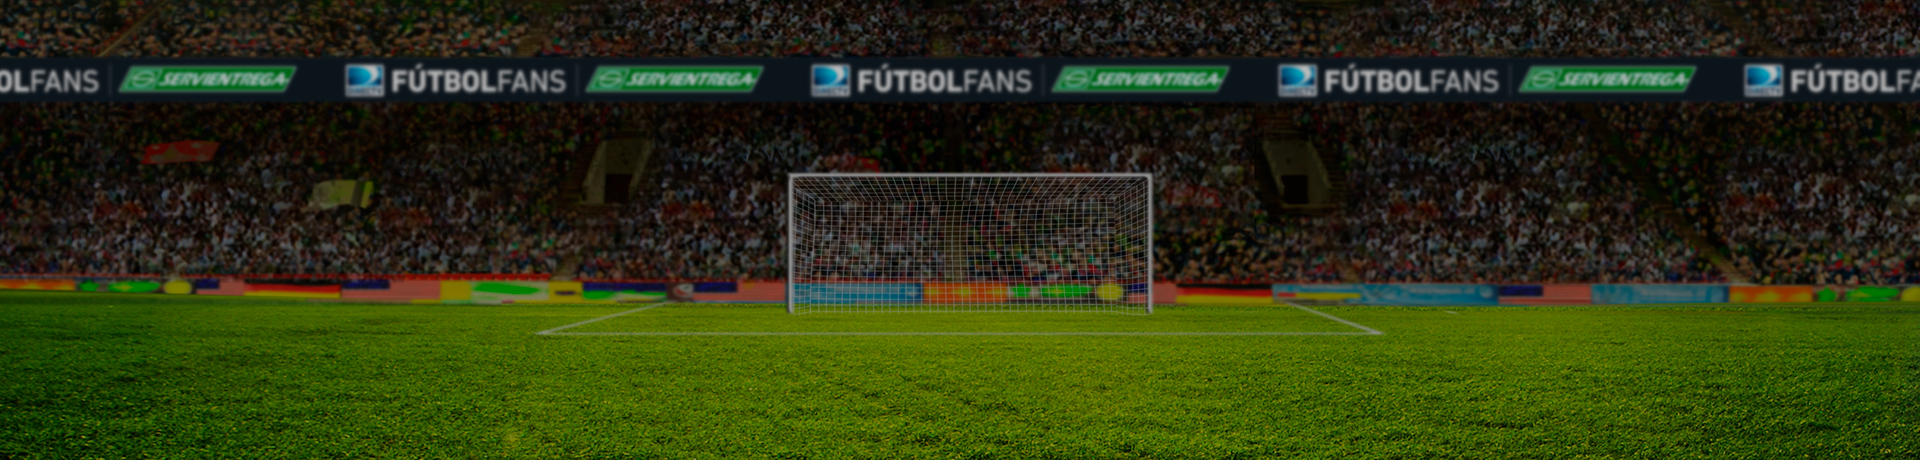
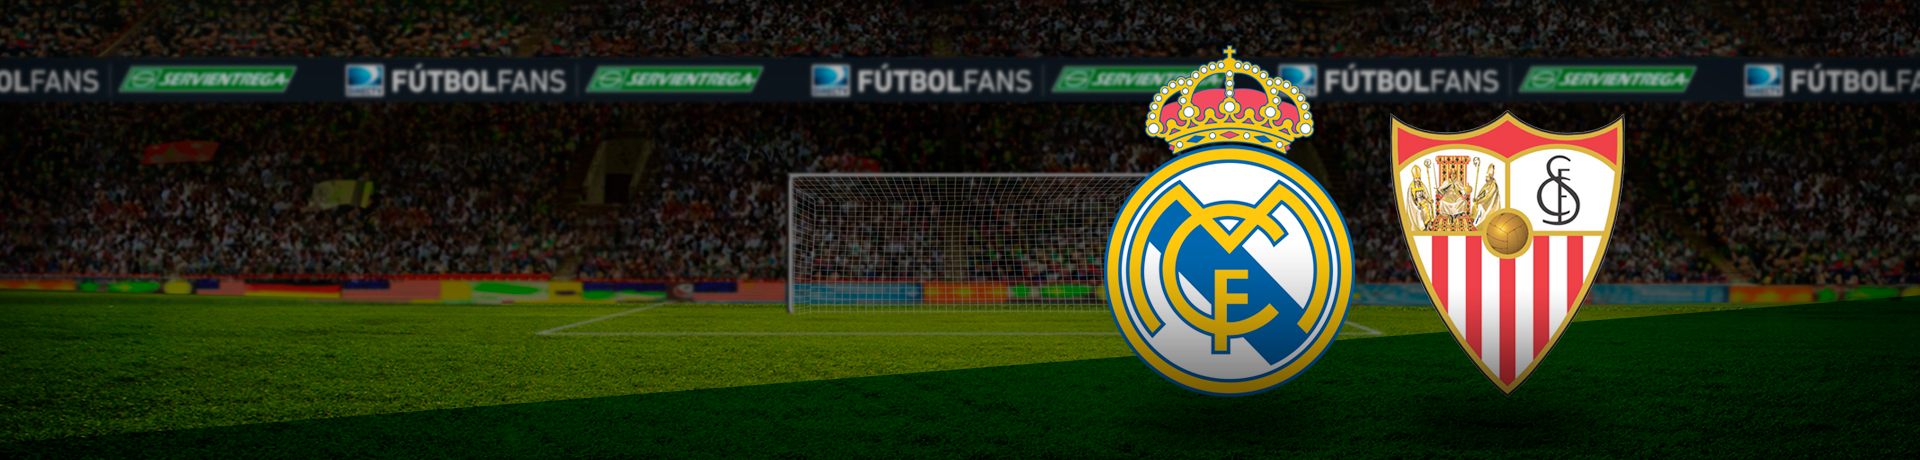
ajustes slide

diff --git a/public/css/app.css b/public/css/app.css
@@ -3603,7 +3603,7 @@ h6 {
   }
 
   h2 {
-    font-size: 2.44845361rem;
+    font-size: 2.19072165rem;
   }
 
   h3 {
@@ -8267,7 +8267,7 @@ h4.seccion,
 h5.seccion,
 h6.seccion {
   color: #009F33;
-  margin: 0;
+  margin-bottom: 8px;
 }
 
 h1.light,
@@ -8419,7 +8419,8 @@ label {
 
 .orbit .orbit-caption {
   background: none;
-  padding: 7% 15%;
+  padding: 6% 15%;
+  width: 60%;
 }
 
 @media print, screen and (min-width: 40em) {

diff --git a/resources/assets/sass/_settings.scss b/resources/assets/sass/_settings.scss
@@ -147,7 +147,7 @@ $header-styles: (
         ),
         medium: (
                 'h1': ('font-size': 42),
-                'h2': ('font-size': 38),
+                'h2': ('font-size': 34),
                 'h3': ('font-size': 30),
                 'h4': ('font-size': 25),
                 'h5': ('font-size': 20),

diff --git a/resources/assets/sass/components/_blocks.scss b/resources/assets/sass/components/_blocks.scss
@@ -66,7 +66,8 @@
   border-bottom: 4px solid $primary-color;
   .orbit-caption {
     background: none;
-    padding: 7% 15%;
+    padding: 6% 15%;
+    width: 60%;
   }
   @include breakpoint(medium) {
     margin-bottom: 60px;

diff --git a/resources/assets/sass/components/_general.scss b/resources/assets/sass/components/_general.scss
@@ -11,7 +11,7 @@ h1,h2,h3,h4,h5,h6{
   }
   &.seccion{
     color: $primary-color;
-    margin: 0;
+    margin-bottom: 8px;
   }
   &.light{
     color: white;

diff --git a/resources/views/layouts/partials/banner.blade.php b/resources/views/layouts/partials/banner.blade.php
@@ -4,9 +4,9 @@
             <li class="is-active orbit-slide">
                 <figure class="orbit-figure">
                     <img class="orbit-image" src="{{ asset('img/banners/slide.jpg') }}" alt="Banner">
-                    <figcaption class="orbit-caption text-center hide-for-small-only">
+                    <figcaption class="orbit-caption text-left hide-for-small-only">
                         <h5 class="seccion">Premio Mayor</h5>
-                        <h2 class="hide-for-large-only">Vive las emociones del partido Real Madrid VS Sevilla en el Estadio Santiago Bernabéu</h2>
+                        <h2 class="hide-for-large-only">Vive las emociones del partido Real Madrid VS Sevilla en Madrid</h2>
                         <a href="premios" class="button">Ver más</a>
                     </figcaption>
                 </figure>
@@ -14,7 +14,7 @@
             <li class="orbit-slide">
                 <figure class="orbit-figure">
                     <img class="orbit-image" src="{{ asset('img/banners/slide2.jpg') }}" alt="Banner">
-                    <figcaption class="orbit-caption text-center hide-for-small-only">
+                    <figcaption class="orbit-caption text-left hide-for-small-only">
                         <h5 class="seccion">Premios Semana Servientrega</h5>
                         <h2 class="hide-for-large-only">Gánate una camiseta oficial de la Selección Colombia</h2>
                         <a href="premios" class="button">Ver más</a>
